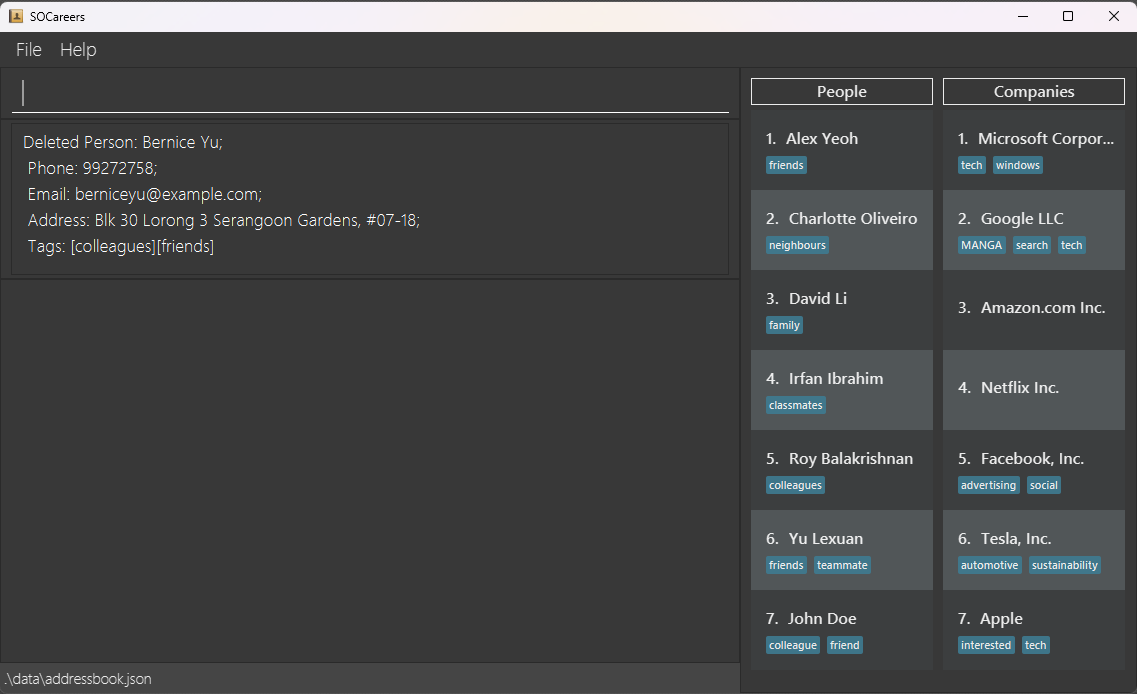
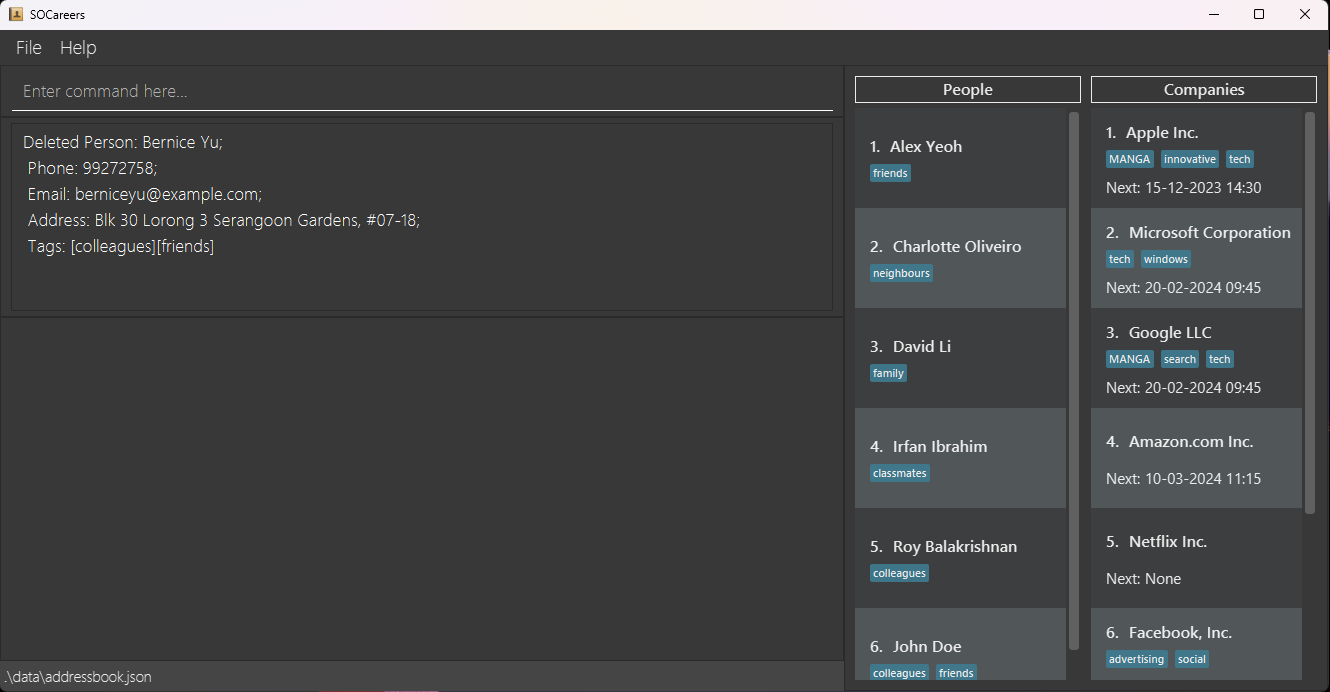
Update the User Guide by adding/updating Ui screenshots, and standardise some elements of the UG
Update and add screenshots for Ui.
Standardise the contents section.
Standardise the command examples by bolding "Examples", and adding a description for the Ui screenshots.
Add headings for each command type.

diff --git a/docs/UserGuide.md b/docs/UserGuide.md
@@ -56,13 +56,13 @@ Additional information to enrich your understanding of SOCareers.
       1. [Adding a person to contacts](#adding-a-person-to-contacts-add-p)
       2. [Adding a company to contacts](#adding-a-company-to-contacts-add-c)
       3. [Adding an internship to a company contact](#adding-an-internship-to-a-company-contact-add-i)
-   2. Deleting a contact
+   2. Listing contacts
+      1. [Listing all persons](#listing-all-persons-list-p)
+      2. [Listing all companies](#listing-all-companies-list-c)
+   3. Deleting a contact
       1. [Deleting a person from contacts](#deleting-a-person-from-contacts-delete-p)
       2. [Deleting a company from contacts](#deleting-a-company-from-contacts-delete-c)
       3. [Deleting an internship from a company contact](#deleting-an-internship-from-a-company-contact-delete-i)
-   3. Listing contacts
-      1. [Listing all persons](#listing-all-persons-list-p)
-      2. [Listing all companies](#listing-all-companies-list-c)
    4. Viewing a contact
       1. [Viewing a person's contact](#viewing-a-persons-contact-view-p)
       2. [Viewing a company's contact](#viewing-a-companys-contact-view-c)
@@ -73,7 +73,8 @@ Additional information to enrich your understanding of SOCareers.
    6. Finding a contact by name or tag
       1. [Finding a person by name or tag](#finding-a-person-by-name-or-tag-find-p)
       2. [Finding a company by name or tag](#finding-a-company-by-name-or-tag-find-c)
-   7. [Sort companies based on internship date](#sort-and-filter-companies)
+   7. Sorting contacts
+      1. [Sorting companies based on internship date](#sort-and-filter-companies)
 3. [FAQ](#faq)
 4. [Command Summary](#command-summary)
 
@@ -179,6 +180,7 @@ Example<br>
 
 [Back to Table of Contents](#table-of-contents)
 
+### Add Commands
 
 ### Adding a person to contacts: `add p`
 
@@ -191,14 +193,15 @@ Format: `add p n/PERSON_NAME p/PHONE_NUMBER e/EMAIL a/ADDRESS [t/TAG]`
 * 'NAME' can only contain alphabetical characters and spaces. No consecutive spaces are allowed.
 </div>
 
-Example
+**Example**
 * `add p n/John Doe p/98765432 e/johnd@example.com a/311, Clementi Ave 2, #02-25 t/friends t/colleagues`: Adds the
-person ‘John Doe’ with the following details:
+person named ‘John Doe’ with the following details:
   * Phone number: 98765432
   * Email: johnd@example.com
   * Address: 311, Clementi Ave 2, #02-25
   * Tags: friends, colleagues<br>
 
+* After the command is run, the output in the Ui should be similar to the one shown here. The person is added to the list of people, as highlighted in the red box:
 ![add person with all information added](images/addPerson.png)
 
 [Back to Table of Contents](#table-of-contents)
@@ -217,15 +220,16 @@ Format: `add c n/COMPANY_NAME p/PHONE_NUMBER e/EMAIL d/DESCRIPTION [t/TAG]`
 Internships must be added separately using the [`add i`](#adding-an-internship-to-a-company-contact-add-i) command.
 </div>
 
-Example
-* `add c n/Apple p/98765432 e/applehr@example.com d/Top tech company t/tech t/interested`: Adds the company Apple with
+**Example**
+* `add c n/TikTok p/98765432 e/tiktokHiring@example.com d/Top Tech Company t/tech t/interested`: Adds the company named ‘TikTok’ with
 the following details:
   * Phone number: 98765432
-  * Email: applehr@example.com
-  * Description: Top tech company
+  * Email: tiktokHiring@example.com
+  * Description: Top Tech Company
   * Tags: tech, interested<br>
 
-  ![add company with all information added](images/addCompany.png)
+* After the command is run, the output in the Ui should be similar to the one shown here. The company is added to the list of companies, as highlighted in the red box:
+![add company with all information added](images/addCompany.png)
 
 [Back to Table of Contents](#table-of-contents)
 
@@ -244,15 +248,45 @@ you sort companies or search for specific companies<br>
 * SCHEDULED_INTERVIEW_TIME must be in the format `DD-MM-YYYY HH:mm` and can only be used **once**
 </div><br>
 
-Example
+**Example**
 * `list c` followed by `add i 3 n/Marketing Intern 2024 d/Conduct market research and analysis s/20-02-2024 09:45`:
 Adds the internship named ‘Marketing Intern 2024’ to the third company in the list with the following details:
   * Description: Conduct market research and analysis
   * Scheduled interview time: 20 February 2024, 9.45am
-<SCREENSHOT: add i>
+
+* After the command is run, the output in the Ui should be similar to the one shown here:
+![add internships with all information added](images/addInternship.png)
 
 [Back to Table of Contents](#table-of-contents)
 
+### List Commands
+### Listing all persons: `list p`
+
+Have a quick overview of all the people you know by viewing your list of persons.
+
+Format: `list p`
+
+**Example**
+* `list p`: Shows the full, unfiltered list of persons currently in your contacts
+* After the command is run, the output in the Ui should be similar to the one shown here. The full list of companies is shown, as highlighted in red:
+![list of all companies](images/listPersons.png)
+
+[Back to Table of Contents](#table-of-contents)
+
+### Listing all companies: `list c`
+
+Have a quick overview of all the companies you are interested in by viewing your list of companies.
+
+Format: `list c`
+
+**Example**
+* `list c`: Shows the full, unfiltered list of companies currently in your contacts
+* After the command is run, the output in the Ui should be similar to the one shown here. The full list of companies is shown, as highlighted in red:
+  ![list of all companies](images/listCompanies.png)
+
+[Back to Table of Contents](#table-of-contents)
+
+### Delete Commands
 ### Deleting a person from contacts: `delete p`
 
 Keep your list of persons organised by deleting contacts you no longer need.
@@ -268,8 +302,9 @@ Format: `delete p INDEX`
 you search for specific people
 </div><br>
 
-Example
+**Example**
 * `list p` followed by `delete p 2`: Deletes the second person in the list of persons
+* After the command is run, the output in the Ui should be similar to the one shown here:
 ![delete company at index 2](images/deletePerson.png)
 
 [Back to Table of Contents](#table-of-contents)
@@ -289,8 +324,9 @@ Format: `delete c INDEX`
 you sort companies or search for specific companies
 </div><br>
 
-Example
+**Example**
 * `list c` followed by `delete c 2`: Deletes the second company in the list of companies
+* After the command is run, the output in the Ui should be similar to the one shown here:
   ![delete company at index 2](images/deleteCompany.png)
 
 [Back to Table of Contents](#table-of-contents)
@@ -310,36 +346,14 @@ Format: `delete i c/COMPANY_INDEX i/INTERNSHIP_INDEX`
 you sort companies or search for specific companies
 </div><br>
 
-Example
+**Example**
 * `list c` followed by `delete i c/2 i/1`: Deletes the first internship of the second company in the list of companies
-<SCREENSHOT>
+* After the command is run, the output in the Ui should be similar to the one shown here. The company which you just deleted the internship from will also be shown in the display box, as highlighted in red:
+  ![delete internship at company index 2 and internship index 1](images/deleteInternship.png)
 
 [Back to Table of Contents](#table-of-contents)
 
-### Listing all persons: `list p`
-
-Have a quick overview of all the people you know by viewing your list of persons.
-
-Format: `list p`
-
-Example<br>
-`list p`: Shows the full, unfiltered list of persons currently in your contacts, as boxed in red
-![list of all companies](images/listPersons.png)
-
-[Back to Table of Contents](#table-of-contents)
-
-### Listing all companies: `list c`
-
-Have a quick overview of all the companies you are interested in by viewing your list of companies.
-
-Format: `list c`
-
-Example
-* `list c`: Shows the full, unfiltered list of persons currently in your contacts, as boxed in red
-  ![list of all companies](images/listCompanies.png)
-
-[Back to Table of Contents](#table-of-contents)
-
+### View Commands
 ### Viewing a person's contact: `view p`
 
 Review the information you included about the people you know efficiently by viewing their contacts.
@@ -355,8 +369,9 @@ Format: `view p INDEX`
 you search for specific people
 </div><br>
 
-Example
+**Example**
 * `list p` followed by `view p 1`:  Displays the first contact in the person list in the display box
+* After the command is run, the output in the Ui should be similar to the one shown here:
   ![show the information of the first person](images/viewPerson.png)
 
 [Back to Table of Contents](#table-of-contents)
@@ -377,12 +392,14 @@ Format: `view c INDEX`
 you sort companies or search for specific companies
 </div><br>
 
-Example
+**Example**
 * `list c` followed by `view c 1`: Displays the first contact in the companies list in the display box
+* After the command is run, the output in the Ui should be similar to the one shown here:
   ![show the information of the first company](images/viewCompany.png)
 
 [Back to Table of Contents](#table-of-contents)
 
+### Edit Commands
 ### Editing a person's contact: `edit p`
 
 Keep your information on the people you know up-to-date by editing their contacts.
@@ -396,6 +413,7 @@ Format: `edit p INDEX [n/NAME] [p/PHONE_NUMBER] [e/EMAIL] [a/ADDRESS] [t/TAG]`
     * a positive integer (e.g. 0, 1, 2…) with a maximum value of 2147483647
     * smaller than the size of the list of persons currently displayed
 * The `INDEX` depends on the currently displayed list of persons which changes as you search for specific people
+* For unspecified parameters, the original value of that parameter for the person will be kept
 * TAGs can be used multiple times in one command
 </div><br>
 
@@ -405,15 +423,15 @@ Editing the tags of a person overwrites any existing tags. Add the tags you woul
 ensure that they are not removed.
 </div>
 
-Example
-* `edit p 1 n/John e/john@example.com a/123, Ang Mo Kio Ave 2, #02-26 t/friends`: Edits the first contact in the list of
+**Example**
+* `edit p 1 n/Tim e/tim@example.com a/123, Ang Mo Kio Ave 2, #02-26 t/friends`: Edits the first contact in the list of
 persons to have the following new details:
-  * Name: John
-  * Email: john@example.com
+  * Name: Tim
+  * Email: tim@example.com
   * Address: 123, Ang Mo Kio Ave 2, #02-26
   * Tags: friends
-
-<SCREENSHOT>
+* After the command is run, the output in the Ui should be similar to the one shown here. The person's corresponding entry in the list of people will also update, as highlighted in red:
+  ![edit the information of the first person](images/editPerson.png)
 
 [Back to Table of Contents](#table-of-contents)
 
@@ -431,6 +449,7 @@ Format: `edit c INDEX [n/COMPANY_NAME] [p/PHONE_NUMBER] [e/EMAIL] [d/DESCRIPTION
     * smaller than the size of the list of companies currently displayed
 * The `INDEX` depends on the currently displayed list of companies which changes as
 you sort companies or search for specific companies
+* For unspecified parameters, the original value of that parameter for the company will be kept
 * TAGs can be used multiple times in one command
 </div><br>
 
@@ -440,15 +459,15 @@ Editing the tags of a company overwrites any existing tags. Add the tags you wou
 ensure that they are not removed.
 </div>
 
-Example
-* `edit c 1 n/Alpha e/alpha@example.com d/A cool company t/tech`: Edits the first contact in the list of companies to
+**Example**
+* `edit c 1 n/AlphaGrep e/alphaGrep@example.com d/A cool company t/tech`: Edits the first contact in the list of companies to
 have the following new details:
-  * Name: Alpha
-  * Email: alpha@example.com
+  * Name: AlphaGrep
+  * Email: alphaGrep@example.com
   * Description: A cool company
   * Tags: tech
-
-<SCREENSHOT>
+* After the command is run, the output in the Ui should be similar to the one shown here. The company's corresponding entry in the list of companies will also update, as highlighted in red:
+  ![edit the information of the first company](images/editCompany.png)
 
 [Back to Table of Contents](#table-of-contents)
 
@@ -466,19 +485,20 @@ Format: `edit i c/COMPANY_INDEX i/INTERNSHIP_INDEX [n/ROLE_NAME] [d/DESCRIPTION]
     * smaller than the size of their respective lists currently displayed
 * The `COMPANY_INDEX` depends on the currently displayed list of companies which changes as
 you sort companies or search for specific companies
+* For unspecified parameters, the original value of that parameter for the internship will be kept
 </div><br>
 
-Example
-* `edit i c/2 i/3 n/Finance Intern 2024 s/20-02-2024 09:45`: Edits the third internship of the second company in the
+**Example**
+* `edit i c/1 i/1 n/Finance Intern 2024 s/20-02-2024 09:45`: Edits the first internship of the first company in the
 list of companies to have the following new details:
   * Name: Finance Intern 2024
   * Scheduled interview time: 20 February 2024, 9.45am
-
-<SCREENSHOT>
+* After the command is run, the output in the Ui should be similar to the one shown here. The internship entry will update and might move to a different position on the list, as highlighted in red:
+  ![edit the information of the second company first internship](images/editInternship.png)
 
 [Back to Table of Contents](#table-of-contents)
 
-
+### Find commands
 ### Finding a person by name or tag: `find p`
 
 Find people you know in your contacts quickly by searching for them by their name or using a tag you have
@@ -504,10 +524,10 @@ Format: `find p [n/KEYWORD] [t/TAG]`
 </div>
 
 
-Example
-* `find p n/John t/friend`: Updates the list of persons with all matching searches and displays the first result 
-John Doe in the display box
-  ![find person by name and tag](images/findPersonByNameAndTag.png)
+**Example**
+* `find p n/John t/friend`: Updates the list of persons by listing only those who match the specified name or tag
+* After the command is run, the output in the Ui should be similar to the one shown here. Only the people matching the specified name or tag will be listed, as highlighted in red:
+![find person all params](images/findPersonByNameAndTag.png)
 
 [Back to Table of Contents](#table-of-contents)
 
@@ -535,26 +555,29 @@ Format: `find c [n/KEYWORD] [t/TAG]`
 * Partial keywords are not supported (e.g. `Ap` will not match `Apple`)
 </div>
 
-Example
-* `find c n/Apple t/tech`: Updates the list of companies with all matching searches and displays
-the first result Apple in the display box:  
-  ![find company by name and tag](images/findCompanyByNameAndTag.png)
+**Example**
+* `find c n/AlphaGrep t/tech`: Updates the list of companies by listing only those who match the specified name or tag
+* After the command is run, the output in the Ui should be similar to the one shown here. Only the companies matching the specified name or tag will be listed, as highlighted in red:
+  ![find person all params](images/findCompanyByNameAndTag.png)
 
 [Back to Table of Contents](#table-of-contents)
 
+### Sort Commands
 ### Sort companies based on internship date
 
-Sort all companies that have internships in the specified time period and display them in order of their most recent interview date (in the specified time period).
+Sort all companies that have internships in the specified time period and display them in order of their next scheduled interview time (in the specified time period).
 
 Format: `sort c [start/START_DATETIME] [end/END_DATETIME]`
-
-Parameters:
+<div markdown="span" class="alert alert-info">
+**:pencil: Parameter Information**<br>
 * `START_DATETIME` and `END_DATETIME` must be in the format `DD-MM-YYYY HH:mm`.
 * `START_DATETIME` and `END_DATETIME` are optional and each can only be used once.
 * `START_DATETIME` must be before `END_DATETIME`.
 * `START_DATETIME` and `END_DATETIME` may be in the past or future.
+</div><br>
 
-Expected behaviour:
+<div markdown="span" class="alert alert-secondary">
+**:information_source: Additional Information**<br>
 * If the parameters are invalid, a general error message about the correct usage will be shown. (Coming soon: specific error messages. Refer to DG for more information.)
 * Even if `START_DATETIME` and `END_DATETIME` are not specified, only companies with internships will be returned.
 * If `START_DATETIME` or (and) `END_DATETIME` are specified, only companies with internships in the specified time period will be returned.
@@ -563,9 +586,11 @@ Expected behaviour:
 * If there are no companies with internships in the specified time period, an empty list will be returned.
 * If there are no companies with internships, an empty list will be returned.
 * If there are no companies, an empty list will be returned.
+</div>
 
-Examples:
-* `sort c start/01-02-2024 00:01 end/01-04-2024 00:01` returns `Microsoft` and `Amazon`:
+**Example**
+* `sort c start/01-02-2024 00:01 end/01-04-2024 00:01` sorts and displays the companies whose next scheduled interview time is within the specified time period
+* After the command is run, the output in the Ui should be similar to the one shown here. Only the companies matching the specifications will be listed, as highlighted in red:
   ![sort companies by interview date](images/sortCompaniesByInterviewDate.png)
 
 --------------------------------------------------------------------------------------------------------------------
@@ -579,14 +604,14 @@ Examples:
 
 ## Command Summary
 
-| Action | Format                            | Examples                                                                                                                                                                                              |
-|--------|-----------------------------------|-------------------------------------------------------------------------------------------------------------------------------------------------------------------------------------------------------|
-| Add    | `add c`, `add p`                  | e.g., `add p n/John Doe p/98765432 e/johnd@example.com a/311, Clementi Ave 2, #02-25 t/friends t/owesMoney`;<br/>`add c n/Apple p/98765432 e/johnd@example.com d/Top tech companyt/tech t/interested` |
+| Action | Format                             | Examples                                                                                                                                                                                              |
+|--------|------------------------------------|-------------------------------------------------------------------------------------------------------------------------------------------------------------------------------------------------------|
+| Add    | `add c`, `add p`, `add i`          | e.g., `add p n/John Doe p/98765432 e/johnd@example.com a/311, Clementi Ave 2, #02-25 t/friends t/owesMoney`;<br/>`add c n/Apple p/98765432 e/johnd@example.com d/Top tech companyt/tech t/interested` |
+| List   | `list c`, `list p`                 |                                                                                                                                                                                                       |
 | Delete | `delete c INDEX`, `delete p INDEX` | e.g., `delete p 3`                                                                                                                                                                                    |
-| List   | `list c`, `list p`                |                                                                                                                                                                                                       |
-| View   | `view c INDEX`, `view p INDEX`    | e.g., `view c 1`                                                                                                                                                                                      |
-| Edit   | `edit c INDEX`, `edit p INDEX`    | e.g., `edit p 1 n/John p/98765432 e/john@example.com a/311, Clementi Ave 2, #02-26 t/friend`;<br> `edit c 1 n/Alpha p/98765432 e/alpha@example.com d/A cool company t/tech`                           |                                                                                                                                                                                    |
-| Find     | `find c`, `find p`                | e.g., `find p n/John Doe t/friend`                                                                                                                                                                    |
-| Sort and filter | `sort c`                          | e.g., `sort c start/01-02-2024 00:01 end/01-04-2024 00:01`                                                                                                                                            |
+| View   | `view c INDEX`, `view p INDEX`     | e.g., `view c 1`                                                                                                                                                                                      |
+| Edit   | `edit c INDEX`, `edit p INDEX`     | e.g., `edit p 1 n/John p/98765432 e/john@example.com a/311, Clementi Ave 2, #02-26 t/friend`;<br> `edit c 1 n/Alpha p/98765432 e/alpha@example.com d/A cool company t/tech`                           |                                                                                                                                                                                    |
+| Find   | `find c`, `find p`                 | e.g., `find p n/John Doe t/friend`                                                                                                                                                                    |
+| Sort   | `sort c`                           | e.g., `sort c start/01-02-2024 00:01 end/01-04-2024 00:01`                                                                                                                                            |
 
 
